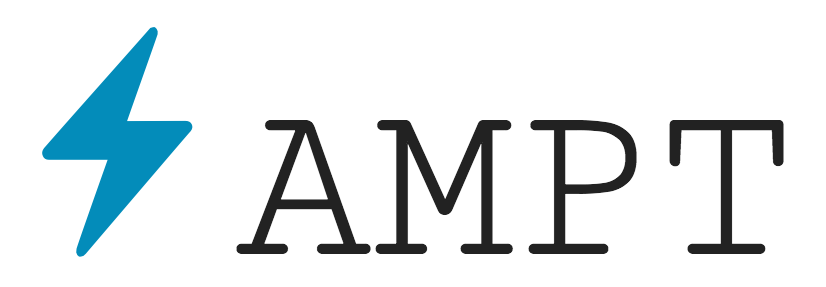
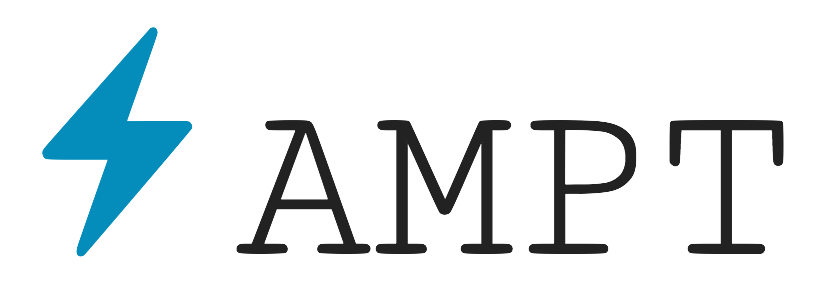
Improvements and addition of auth key support for manager -> probe generator.
- Add HMAC and replay counter (timestamp) validation for authentication of requests from manager to probe generator
- Modify ProbeGenerator model to support storage of per-instance auth key
- Render probe generator status on list page and probe generator detail page
- Add AMPT logo to login page
- Give logo image transparency
- Add workaround for janky failure converting probe generator destination port value to int in form handling, to be fixed

Changed region(s): [[0.6356, 0.8641, 0.6659, 0.892]]

diff --git a/ampt_manager/web/templates/monitoredsegment_list.html b/ampt_manager/web/templates/monitoredsegment_list.html
@@ -25,7 +25,7 @@
             <tr{% if not segment.active %} class="text-muted"{% endif %}>
                <td><strong><a href="{{ url_for('SegmentView:get', id=segment.id) }}">{{ segment.name }}</a></strong></td>
                <td>{{ segment.description }}</td>
-               <td><a href="{{ url_for('GeneratorView:get', id=segment.generator.id) }}">{{ segment.generator.name }}</a></td>
+               <td><a href="{{ url_for('GeneratorView:get', id=segment.generator.id) }}">{{ segment.generator.name }}</a> ({{ 'enabled' if segment.generator.active else 'disabled' }})</td>
                <td>{{ 'Yes' if segment.active else 'No' }}</td>
                <td><a href="{{ url_for('SegmentView:edit', id=segment.id) }}">Edit</a></td>
             </tr>

diff --git a/ampt_manager/web/templates/login.html b/ampt_manager/web/templates/login.html
@@ -7,6 +7,9 @@
     <div class="col-md-4 col-md-offset-4">
       <div class="well well-sm">
         <form method="POST" class="form-signin">
+          <div>
+            <img class="img-responsive" alt="AMPT Logo" src="{{ url_for('static', filename='images/ampt.png') }}" />
+          </div>
           <h3 class="form-signin-heading">Sign in</h3>
           {{ form.csrf_token }}
           {{ form.username.label(class="sr-only") }}

diff --git a/ampt_manager/web/templates/probegenerator_detail.html b/ampt_manager/web/templates/probegenerator_detail.html
@@ -15,13 +15,14 @@
     <table class="table">
       <thead>
         <tr>
-          <th>Address</th> <th>Port</th>
+          <th>Address</th> <th>Port</th> <th>Auth Key</th>
         </tr>
       </thead>
       <tbody>
         <tr>
           <td>{{ object.address }}</td>
           <td>{{ object.port }}</td>
+          <td>{{ object.auth_key }}</td>
         </tr>
       </tbody>
     </table>

diff --git a/ampt_manager/web/templates/probegenerator_create_modify.html b/ampt_manager/web/templates/probegenerator_create_modify.html
@@ -7,6 +7,7 @@
       {{ render_field(form.name) }}
       {{ render_field(form.address) }}
       {{ render_field(form.port) }}
+      {{ render_field(form.auth_key) }}
       {{ render_field(form.active) }}
 {% endblock %}
 

diff --git a/ampt_manager/db/models.py b/ampt_manager/db/models.py
@@ -47,14 +47,29 @@ class User(BaseModel, UserMixin):
         return '%s (%s)' % (self.username, self.display_name)
 
 class ProbeGenerator(BaseModel):
-    name = CharField(max_length=75, unique=True, help_text='Name of generator node')
-    address = CharField(max_length=150, help_text='Address (hostname or IP) of generator node')
+    name = CharField(max_length=75, unique=True,
+                     help_text='Name of generator node')
+    address = CharField(max_length=150,
+                        help_text='Address (hostname or IP) of generator node')
     port = IntegerField(default=settings.probe_generator_default_port)
+    auth_key = CharField(max_length=150,
+                         help_text='Authentication key for generator node')
     active = BooleanField(default=True)
-    created_date = DateField(default=datetime.datetime.utcnow, help_text='Date generator was added to configuration')
-    modified_date = DateField(default=datetime.datetime.utcnow, help_text='Date generator was last modified')
-    created_by = ForeignKeyField(User, related_name='created_probegenerator_set', help_text='User that added generator')
-    last_modified_by = ForeignKeyField(User, related_name='modified_probegenerator_set', help_text='User that modified generator')
+    created_date = DateField(default=datetime.datetime.utcnow,
+                             help_text='Date generator was added '
+                                       'to configuration')
+    modified_date = DateField(default=datetime.datetime.utcnow,
+                              help_text='Date generator was last modified')
+    created_by       = ForeignKeyField(
+                           User,
+                           related_name='created_probegenerator_set',
+                           help_text='User that added generator'
+                       )
+    last_modified_by = ForeignKeyField(
+                           User,
+                           related_name='modified_probegenerator_set',
+                           help_text='User that modified generator'
+                       )
 
     class Meta:
         # Unique multi-column index on generator address/port

diff --git a/ampt_manager/web/forms.py b/ampt_manager/web/forms.py
@@ -15,6 +15,10 @@ __all__ = ['LoginForm', 'MonitoredSegmentCreateModifyForm',
            'EventMonitorCreateModifyForm', 'ProbeGeneratorCreateModifyForm',
            'AMPTObjectDeleteForm', 'ReceivedProbeLogForm']
 
+class LoginForm(FlaskForm):
+    username = StringField('Username', validators=[validators.InputRequired()])
+    password = PasswordField('Password', validators=[validators.InputRequired()])
+
 class MonitoredSegmentCreateModifyForm(FlaskForm):
     name = StringField('Segment Name', [validators.InputRequired()], description='Name of monitored segment', render_kw={'autofocus': 'autofocus'})
     description = StringField('Description', [validators.InputRequired()], description='Description of monitored segment', render_kw={'size': 45})
@@ -30,14 +34,11 @@ class EventMonitorCreateModifyForm(FlaskForm):
     type = SelectField('Monitor Type', [validators.required()], choices=MONITOR_TYPES, description='Type of Monitor')
     active = BooleanField('Enable Monitor', default=True)
 
-class LoginForm(FlaskForm):
-    username = StringField('Username', validators=[validators.InputRequired()])
-    password = PasswordField('Password', validators=[validators.InputRequired()])
-
 class ProbeGeneratorCreateModifyForm(FlaskForm):
     name = StringField('Name', [validators.InputRequired()], description='Name of probe generator', render_kw={'autofocus': 'autofocus'})
     address = StringField('Address', [validators.InputRequired()], description='Address (hostname or IP) of generator node', render_kw={'size': 35})
     port = IntegerField('Port', [validators.InputRequired(), validators.NumberRange(0, 65535)], default=settings.probe_generator_default_port, description='Listener port for probe generator', render_kw={'size': 5})
+    auth_key = StringField('Auth Key', [validators.InputRequired()], description='Authentication key for generator node', render_kw={'size': 35})
     active = BooleanField('Enable Generator', default=True)
 
 class AMPTObjectDeleteForm(FlaskForm):

diff --git a/ampt_manager/web/views.py b/ampt_manager/web/views.py
@@ -110,13 +110,16 @@ class SegmentView(FlaskView):
     @route('/create/', methods=['GET', 'POST'])
     def create(self):
         form = MonitoredSegmentCreateModifyForm()
-	# For some reason data from form submission sets the generator
-	# field to a str type instead of int and leads to this exception
+        # XXX bug
+	# For some reason data from form submission sets the generator and dest_port
+	# fields to a str type instead of int and leads to these types of exceptions
 	# in form.validate_on_submit():
         #   TypeError: unorderable types: str() < int()
-	# So we make it an int explicitly:
+        #   TypeError: '<' not supported between instances of 'str' and 'int'
+	# So we make them an int explicitly:
         if request.method == 'POST':
             form.generator.data = int(form.generator.data)
+            form.dest_port.data = int(form.dest_port.data)
         if form.validate_on_submit():
             segment = MonitoredSegment()
             form.populate_obj(segment)
@@ -144,6 +147,15 @@ class SegmentView(FlaskView):
     def edit(self, id):
         segment = get_object_or_404(MonitoredSegment, MonitoredSegment.id==id)
         form = MonitoredSegmentCreateModifyForm(obj=segment)
+        # XXX bug
+	# For some reason data from form submission sets the generator and dest_port
+	# fields to a str type instead of int and leads to this exception
+	# in form.validate_on_submit():
+        #   TypeError: '<' not supported between instances of 'str' and 'int'
+	# So we make them ints explicitly:
+        if request.method == 'POST':
+            form.generator.data = int(form.generator.data)
+            form.dest_port.data = int(form.dest_port.data)
         if form.validate_on_submit():
             form.populate_obj(segment)
             segment.modified_date = datetime.datetime.utcnow()

diff --git a/ampt_manager/dispatcher.py b/ampt_manager/dispatcher.py
@@ -4,6 +4,9 @@ AMPT manager probe packet dispatcher.
 Dispatches monitoring probe requests to AMPT generators.
 '''
 
+import hmac
+import json
+import time
 import random
 import logging
 import requests
@@ -35,12 +38,27 @@ class ProbeRequest(object):
                                              generator=self.generator))
             return
 
+        # Define base parameters providing info needed by generator to
+        # validate request and dispatch packet. The four-tuple of destination
+        # address, source and destination port and protocol are required to
+        # dispatch probes, and the timestamp field provides an incrementing
+        # counter of sorts for some replay protection.
         params = {
             'dest_addr': self.segment.dest_addr,
             'dest_port': self.segment.dest_port,
             'src_port': random.randrange(1024, 65535),
             'proto': self.segment.protocol,
+            'ts': time.time(),
         }
+        # HMAC: build message from unindented, key-sorted JSON of parameters
+        j = json.dumps(params, sort_keys=True)
+        # HMAC: compute with generator auth key and message digest
+        # from configuration
+        h = hmac.new(bytes(self.generator.auth_key.encode('utf-8')),
+                     j.encode('utf-8'), app.config['HMAC_DIGEST'])
+        # HMAC: append hex digest to request parameters
+        params.update(h=h.hexdigest())
+
         generator = 'http://{address}:{port}/api/generate_probe'.format(
             address=self.generator.address, port=self.generator.port)
         try:

diff --git a/ampt_manager/appinit/appinit.py b/ampt_manager/appinit/appinit.py
@@ -63,7 +63,8 @@ def initialize_config(args):
             listen_address=settings.default_listen_address,
             listen_port=settings.default_listen_port,
             sslcertpath=sslcertpath,
-            sslkeypath=sslkeypath))
+            sslkeypath=sslkeypath,
+            hmac_digest=settings.default_hmac_digest))
 
     # Import done late so that models have a database configuration when loaded
     os.environ['AMPT_MANAGER_SETTINGS'] = configfile

diff --git a/ampt_manager/db/database.py b/ampt_manager/db/database.py
@@ -65,6 +65,7 @@ def initialize_database(args, admin_user, admin_pw):
     ProbeGenerator.create(name='Local',
                           address='localhost',
                           port=settings.probe_generator_default_port,
+                          auth_key='',
                           active=False,
                           created_by=initial_user,
                           last_modified_by=initial_user)

diff --git a/setup.py b/setup.py
@@ -14,7 +14,7 @@ with open(path.join(here, 'README.md'), encoding='utf-8') as f:
 
 setup(
     name='ampt-manager',
-    version='0.2.7',
+    version='0.2.8',
     description='AMPT-manager, a web application that manages passive network device monitoring',
     long_description=long_description,
     url='https://github.com/nids-io/ampt-manager',

diff --git a/ampt_manager/settings.py b/ampt_manager/settings.py
@@ -38,3 +38,7 @@ default_ssl_key_name = 'ampt_manager.key'
 default_ssl_key_size = 2048
 # Maximum number of Gunicorn workers
 gunicorn_workers_max = 5
+# HMAC digest name
+# May be set to any supported digest name:
+# https://docs.python.org/3/library/hashlib.html#hashlib.new
+default_hmac_digest = 'sha256'
